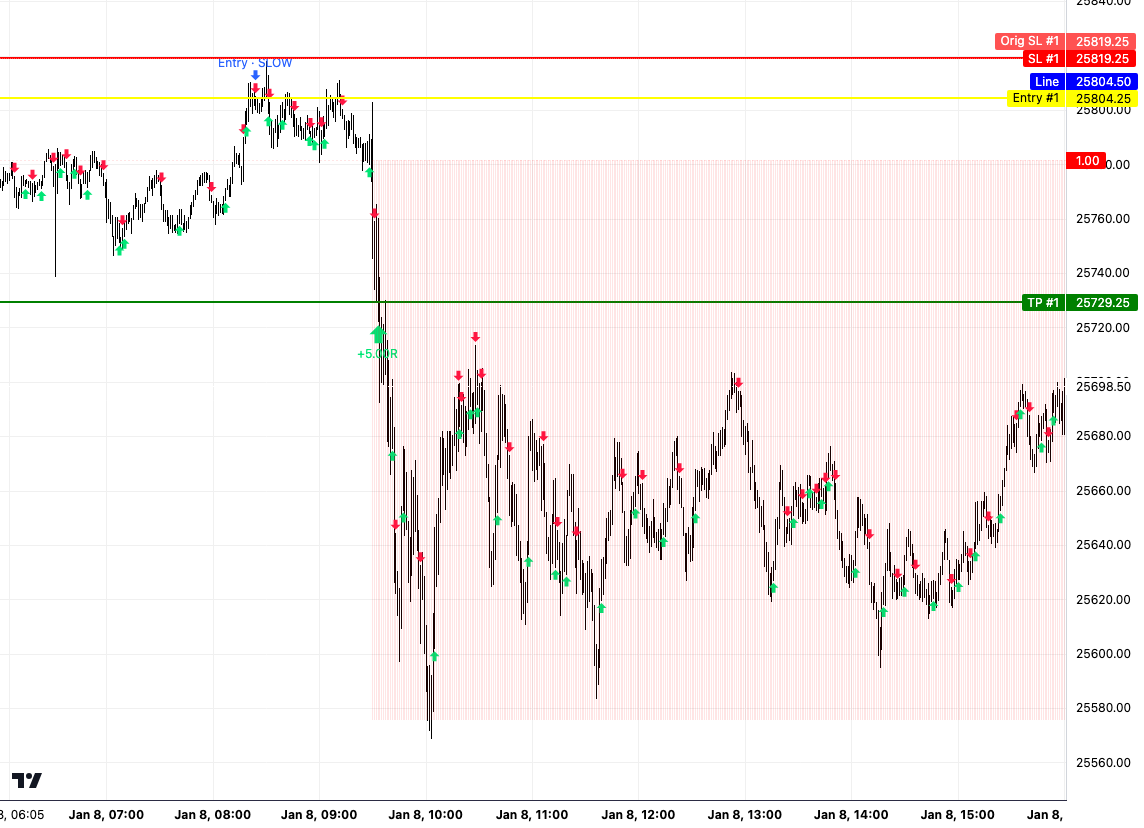
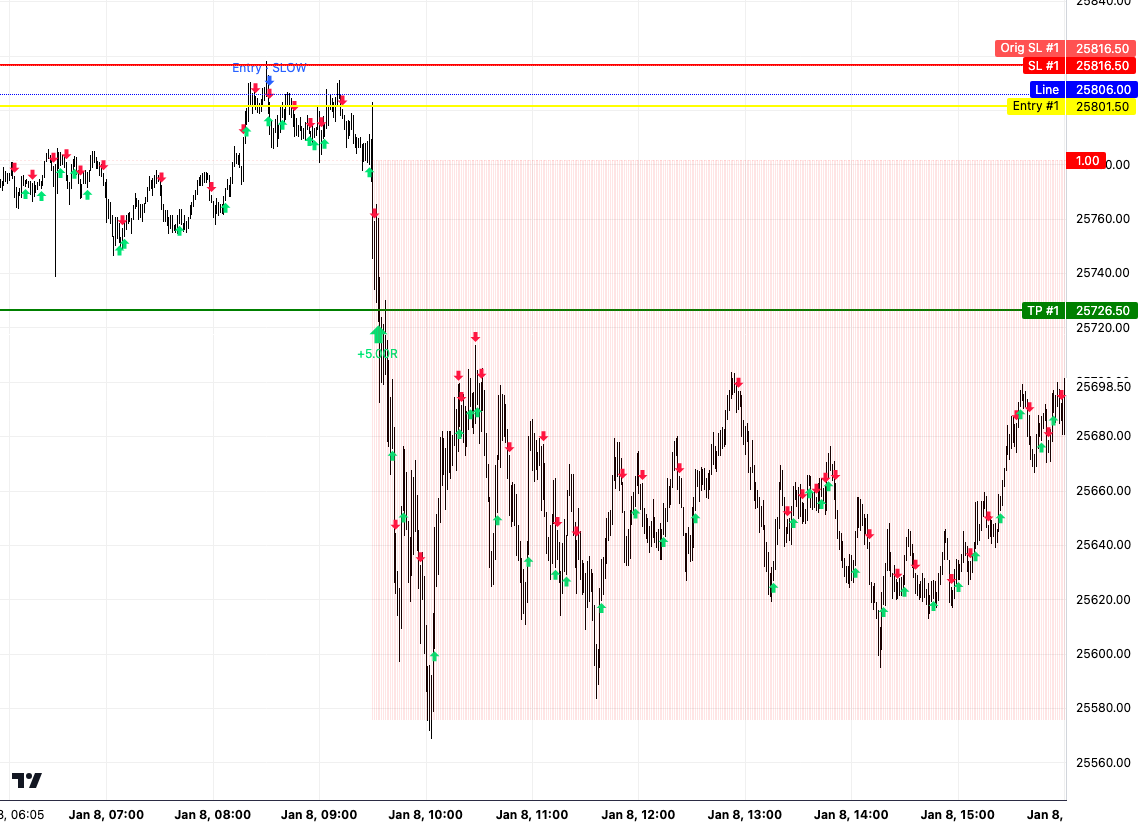
add session end time to Settings

Changed region(s): [[0.0, 0.0302, 1.0, 0.151], [0.0, 0.3321, 1.0, 0.3925]]

diff --git a/templates/admin.html b/templates/admin.html
@@ -274,6 +274,11 @@
               <label class="block text-xs font-medium text-gray-400 uppercase tracking-wider mb-1.5">Instrument</label>
               <input type="text" id="settings-instrument" class="w-full px-3 py-2.5 bg-gray-700/60 border border-gray-600 rounded-lg text-white focus:border-blue-500 focus:outline-none focus:ring-1 focus:ring-blue-500 transition-colors" />
             </div>
+            <div>
+              <label class="block text-xs font-medium text-gray-400 uppercase tracking-wider mb-1.5">Session End (HH:MM)</label>
+              <input type="text" id="settings-session-end" placeholder="16:58" class="w-full px-3 py-2.5 bg-gray-700/60 border border-gray-600 rounded-lg text-white focus:border-blue-500 focus:outline-none focus:ring-1 focus:ring-blue-500 transition-colors" />
+              <p class="text-xs text-gray-500 mt-1">Open trades are closed at this time to avoid overnight exposure.</p>
+            </div>
             <div class="bg-gray-700/40 rounded-lg p-3 text-sm text-gray-400">
               <p class="mb-1">💡 <span class="text-gray-300 font-medium">Risk &amp; RR Ratio</span> are configured per NT Account below.</p>
             </div>

diff --git a/static/js/admin/SettingsManager.js b/static/js/admin/SettingsManager.js
@@ -19,6 +19,7 @@ export class SettingsManager {
     this.el = {
       pair: document.getElementById('settings-pair'),
       instrument: document.getElementById('settings-instrument'),
+      sessionEnd: document.getElementById('settings-session-end'),
       // Global risk/rr removed — now per-account
       flaskPort: document.getElementById('settings-flask-port'),
       zmqHost: document.getElementById('settings-zmq-host'),
@@ -59,6 +60,7 @@ export class SettingsManager {
       const n = data.network || {};
       this.el.pair.value = t.pair || 'MNQ';
       this.el.instrument.value = t.instrument || '';
+      this.el.sessionEnd.value = t.session_end || '16:58';
       // Risk/RR are now per-account only
       this.el.flaskPort.value = n.flask_port || '5001';
       this.el.zmqHost.value = n.zmq_host || '127.0.0.1';
@@ -217,6 +219,7 @@ export class SettingsManager {
         trading: {
           pair: this.el.pair.value,
           instrument: this.el.instrument.value,
+          session_end: this.el.sessionEnd.value,
         },
         network: {
           flask_port: this.el.flaskPort.value,

diff --git a/scripts/run_scenarios.py b/scripts/run_scenarios.py
@@ -111,16 +111,16 @@ def verify_csv_data(csv_path: Path, pair: str, start_ts: int, end_ts: int):
 # Server Process Logic
 # -------------------------------------------------------------------------
 
-def run_test_server(csv_path: str, bars_per_second: float, port: int, ready_event: Event, quiet: bool = False, no_breakeven: bool = False, no_reentry_breakeven: bool = False, broker_mode: str = 'futures', broker_spread: float = 0.0, rr_ratio: float = 5.0, persist: bool = False, risk_per_trade: float = None, risk_pct_per_trade: float = None, account_balance: float = 100000.0, use_fractional_lots: bool = False, fee_per_rt: float = FinancialCalc.DEFAULT_FEE_PER_RT):
+def run_test_server(csv_path: str, bars_per_second: float, port: int, ready_event: Event, quiet: bool = False, no_breakeven: bool = False, no_reentry_breakeven: bool = False, broker_mode: str = 'futures', broker_spread: float = 0.0, rr_ratio: float = 5.0, persist: bool = False, risk_per_trade: float = None, risk_pct_per_trade: float = None, account_balance: float = 100000.0, use_fractional_lots: bool = False, fee_per_rt: float = FinancialCalc.DEFAULT_FEE_PER_RT, session_end: str = "16:58", session_tz: str = "America/New_York"):
     try:
-        _run_test_server_inner(csv_path, bars_per_second, port, ready_event, quiet, no_breakeven, no_reentry_breakeven, broker_mode, broker_spread, rr_ratio, persist, risk_per_trade, risk_pct_per_trade, account_balance, use_fractional_lots, fee_per_rt)
+        _run_test_server_inner(csv_path, bars_per_second, port, ready_event, quiet, no_breakeven, no_reentry_breakeven, broker_mode, broker_spread, rr_ratio, persist, risk_per_trade, risk_pct_per_trade, account_balance, use_fractional_lots, fee_per_rt, session_end, session_tz)
     except Exception as e:
         import traceback
         sys.stderr.write(f"\n❌ Server process crashed: {e}\n")
         traceback.print_exc(file=sys.stderr)
         sys.stderr.flush()
 
-def _run_test_server_inner(csv_path: str, bars_per_second: float, port: int, ready_event: Event, quiet: bool = False, no_breakeven: bool = False, no_reentry_breakeven: bool = False, broker_mode: str = 'futures', broker_spread: float = 0.0, rr_ratio: float = 5.0, persist: bool = False, risk_per_trade: float = None, risk_pct_per_trade: float = None, account_balance: float = 100000.0, use_fractional_lots: bool = False, fee_per_rt: float = FinancialCalc.DEFAULT_FEE_PER_RT):
+def _run_test_server_inner(csv_path: str, bars_per_second: float, port: int, ready_event: Event, quiet: bool = False, no_breakeven: bool = False, no_reentry_breakeven: bool = False, broker_mode: str = 'futures', broker_spread: float = 0.0, rr_ratio: float = 5.0, persist: bool = False, risk_per_trade: float = None, risk_pct_per_trade: float = None, account_balance: float = 100000.0, use_fractional_lots: bool = False, fee_per_rt: float = FinancialCalc.DEFAULT_FEE_PER_RT, session_end: str = "16:58", session_tz: str = "America/New_York"):
     if quiet:
         sys.stdout = open(os.devnull, 'w')
         import logging
@@ -174,6 +174,8 @@ def _run_test_server_inner(csv_path: str, bars_per_second: float, port: int, rea
         broker_spread=broker_spread,
         use_fractional_lots=use_fractional_lots,
         fee_per_rt=fee_per_rt,
+        session_end_time=session_end,
+        session_tz=session_tz,
     )
 
     ready_event.set()
@@ -497,9 +499,11 @@ async def run_suite(args, scenarios: List[Dict], csv_path: Path):
 
     # When risk_pct is set, pass None for risk_per_trade so percentage takes precedence
     risk_per_trade = None if getattr(args, 'risk_pct', None) is not None else args.risk
+    session_end = getattr(args, 'session_end', '16:58')
+    session_tz = getattr(args, 'session_tz', 'America/New_York')
     server_proc = Process(
         target=run_test_server,
-        args=(str(csv_path.resolve()), args.bars_per_second, args.port, server_ready, quiet, no_breakeven, no_reentry_breakeven, broker_mode, broker_spread, args.rr, args.persist, risk_per_trade, getattr(args, 'risk_pct', None), args.account, use_fractional_lots, fee_per_rt)
+        args=(str(csv_path.resolve()), args.bars_per_second, args.port, server_ready, quiet, no_breakeven, no_reentry_breakeven, broker_mode, broker_spread, args.rr, args.persist, risk_per_trade, getattr(args, 'risk_pct', None), args.account, use_fractional_lots, fee_per_rt, session_end, session_tz)
     )
     server_proc.start()
 
@@ -628,10 +632,11 @@ async def run_suite(args, scenarios: List[Dict], csv_path: Path):
                     sock.on('stream_end', () => { window.__done = true; });
                 """)
 
-                # Extend stream to NY session end (15:00) so open trades get closed
-                ny_tz = ZoneInfo("America/New_York")
+                # Extend stream to session end so open trades get closed
                 scenario_date = dtparser.parse(sc["start"]).date()
-                session_end_dt = datetime.combine(scenario_date, dtime(15, 0), tzinfo=ny_tz)
+                session_end_time = dtime.fromisoformat(getattr(args, 'session_end', '16:58'))
+                session_end_tz = ZoneInfo(getattr(args, 'session_tz', 'America/New_York'))
+                session_end_dt = datetime.combine(scenario_date, session_end_time, tzinfo=session_end_tz)
                 session_end_ts = int(session_end_dt.timestamp())
                 stream_stop_at = max(end_ts, session_end_ts)
 
@@ -1308,6 +1313,10 @@ def main():
                     help="Risk:Reward ratio for TP calculation (default: 4.0)")
     ap.add_argument("--persist", action="store_true", default=False,
                     help="Persist scenario trades to the database (default: false, uses in-memory storage)")
+    ap.add_argument("--session-end", type=str, default="16:58",
+                    help="Session end time HH:MM for closing open trades (default: 16:58)")
+    ap.add_argument("--session-tz", type=str, default="America/New_York",
+                    help="Timezone for session end time (default: America/New_York)")
     args = ap.parse_args()
 
     yaml_path = Path(args.yaml)

diff --git a/tests/test_trade_manager_expanded.py b/tests/test_trade_manager_expanded.py
@@ -486,12 +486,12 @@ class TestSessionEndCloseExpanded:
     def test_zmq_failure_keeps_trade_open(self):
         tm = _make_manager(
             trade_executor=ExplodingExecutor(),
-            session_end_time="15:00",
+            session_end_time="16:58",
             session_tz="America/New_York",
         )
         _add_open_trade(tm, entry=100, sl=90, tp=130, risk=10, entry_time=500)
         ny = __import__('zoneinfo').ZoneInfo("America/New_York")
-        bar_dt = datetime(2025, 6, 15, 15, 1, tzinfo=ny)
+        bar_dt = datetime(2025, 6, 15, 16, 59, tzinfo=ny)
         bar = make_bar(time=int(bar_dt.timestamp()), close=105, pair="MNQ")
         tm.handle_new_1m_bar(bar)
         assert len(tm.open_trades) == 1
@@ -502,12 +502,12 @@ class TestSessionEndCloseExpanded:
         tm = _make_manager(
             trade_repository=repo,
             analytics=analytics,
-            session_end_time="15:00",
+            session_end_time="16:58",
             session_tz="America/New_York",
         )
         _add_open_trade(tm, entry=100, sl=90, tp=130, risk=10, entry_time=500)
         ny = __import__('zoneinfo').ZoneInfo("America/New_York")
-        bar_dt = datetime(2025, 6, 15, 15, 1, tzinfo=ny)
+        bar_dt = datetime(2025, 6, 15, 16, 59, tzinfo=ny)
         bar = make_bar(time=int(bar_dt.timestamp()), close=105, pair="MNQ")
         tm.handle_new_1m_bar(bar)
         assert len(analytics.exceptions) == 1
@@ -515,21 +515,21 @@ class TestSessionEndCloseExpanded:
         assert len(tm.open_trades) == 0
 
     def test_skips_different_pair_at_session_end(self):
-        tm = _make_manager(session_end_time="15:00", session_tz="America/New_York")
+        tm = _make_manager(session_end_time="16:58", session_tz="America/New_York")
         _add_open_trade(tm, entry=100, sl=90, tp=130, risk=10, entry_time=500, pair="ES")
         ny = __import__('zoneinfo').ZoneInfo("America/New_York")
-        bar_dt = datetime(2025, 6, 15, 15, 1, tzinfo=ny)
+        bar_dt = datetime(2025, 6, 15, 16, 59, tzinfo=ny)
         bar = make_bar(time=int(bar_dt.timestamp()), close=105, pair="MNQ")
         tm.handle_new_1m_bar(bar)
         assert len(tm.open_trades) == 1
 
     def test_skips_entry_time_after_bar_at_session_end(self):
-        tm = _make_manager(session_end_time="15:00", session_tz="America/New_York")
+        tm = _make_manager(session_end_time="16:58", session_tz="America/New_York")
         # entry_time far in the future relative to the bar timestamp
         future_entry = int(datetime(2030, 1, 1, 0, 0, tzinfo=timezone.utc).timestamp())
         _add_open_trade(tm, entry=100, sl=90, tp=130, risk=10, entry_time=future_entry)
         ny = __import__('zoneinfo').ZoneInfo("America/New_York")
-        bar_dt = datetime(2025, 6, 15, 15, 1, tzinfo=ny)
+        bar_dt = datetime(2025, 6, 15, 16, 59, tzinfo=ny)
         bar = make_bar(time=int(bar_dt.timestamp()), close=105, pair="MNQ")
         tm.handle_new_1m_bar(bar)
         assert len(tm.open_trades) == 1

diff --git a/tests/test_trade_manager.py b/tests/test_trade_manager.py
@@ -178,21 +178,21 @@ class TestCFDMode:
 class TestSessionEndClose:
 
     def test_closes_at_session_end(self):
-        tm = _make_manager(session_end_time="15:00", session_tz="America/New_York")
+        tm = _make_manager(session_end_time="16:58", session_tz="America/New_York")
         _add_open_trade(tm, entry=100, sl=90, tp=130, risk=10, entry_time=500)
-        # 15:01 NY -> should close
+        # 16:59 NY -> should close
         from zoneinfo import ZoneInfo
         ny = ZoneInfo("America/New_York")
-        bar_dt = datetime(2025, 6, 15, 15, 1, tzinfo=ny)
+        bar_dt = datetime(2025, 6, 15, 16, 59, tzinfo=ny)
         bar = make_bar(time=int(bar_dt.timestamp()), close=105, pair="MNQ")
         tm.handle_new_1m_bar(bar)
         assert len(tm.open_trades) == 0
 
     def test_skips_same_bar_session_end(self):
-        tm = _make_manager(session_end_time="15:00", session_tz="America/New_York")
+        tm = _make_manager(session_end_time="16:58", session_tz="America/New_York")
         from zoneinfo import ZoneInfo
         ny = ZoneInfo("America/New_York")
-        bar_dt = datetime(2025, 6, 15, 15, 1, tzinfo=ny)
+        bar_dt = datetime(2025, 6, 15, 16, 58, tzinfo=ny)
         entry_time = int(bar_dt.timestamp())
         _add_open_trade(tm, entry=100, sl=90, tp=130, risk=10, entry_time=entry_time)
         bar = make_bar(time=entry_time, close=105, pair="MNQ")
@@ -201,11 +201,11 @@ class TestSessionEndClose:
         assert len(tm.open_trades) == 1
 
     def test_does_not_close_before_session_end(self):
-        tm = _make_manager(session_end_time="15:00", session_tz="America/New_York")
+        tm = _make_manager(session_end_time="16:58", session_tz="America/New_York")
         _add_open_trade(tm, entry=100, sl=90, tp=130, risk=10, entry_time=500)
         from zoneinfo import ZoneInfo
         ny = ZoneInfo("America/New_York")
-        bar_dt = datetime(2025, 6, 15, 14, 59, tzinfo=ny)
+        bar_dt = datetime(2025, 6, 15, 16, 57, tzinfo=ny)
         bar = make_bar(time=int(bar_dt.timestamp()), close=105, pair="MNQ")
         tm.handle_new_1m_bar(bar)
         assert len(tm.open_trades) == 1

diff --git a/app_factory.py b/app_factory.py
@@ -266,6 +266,8 @@ def create_app(
     db: DatabaseProtocol | None = None,
     accounts_repo=None,
     app_config=None,
+    session_end_time: str | None = None,
+    session_tz: str = "America/New_York",
 ) -> AppWiring:
     """
     Build the whole application with injected dependencies.
@@ -319,12 +321,14 @@ def create_app(
     if accounts_repo is None and db is not None:
         accounts_repo = NtAccountRepository(db=db)
 
+    _resolved_session_end = session_end_time or (getattr(app_config, "session_end", None) if app_config else None) or "16:58"
+
     trade_manager = TradeManager(
         trade_repository=repos.trades,
         socketio=event_publisher,
         pair=pair,
-        session_end_time="17:00",
-        session_tz="America/New_York",
+        session_end_time=_resolved_session_end,
+        session_tz=session_tz,
         broker_mode=broker_mode,
         broker_spread=broker_spread,
         use_fractional_lots=use_fractional_lots,

diff --git a/src/config/builder.py b/src/config/builder.py
@@ -137,6 +137,7 @@ class AppBuilder:
             app_config=cfg,
             db=db,
             accounts_repo=accounts_repo,
+            session_end_time=cfg.session_end,
         ), None
 
     # ------------------------------------------------------------------
@@ -231,5 +232,6 @@ class AppBuilder:
             app_config=cfg,
             db=db,
             accounts_repo=accounts_repo,
+            session_end_time=cfg.session_end,
         )
         return wiring, ds

diff --git a/src/services/settings_service.py b/src/services/settings_service.py
@@ -79,6 +79,7 @@ class SettingsService:
             "trading": {
                 "pair": all_settings.get("pair", "MNQ"),
                 "instrument": all_settings.get("instrument", "MNQ 06-26"),
+                "session_end": all_settings.get("session_end", "16:58"),
             },
             "network": {
                 "flask_port": all_settings.get("flask_port", "5001"),

diff --git a/src/config/models.py b/src/config/models.py
@@ -116,7 +116,7 @@ class AppConfig:
     """Trading session start time (HH:MM, in ``America/New_York`` by default).
     Entry filters block signals outside this window."""
 
-    session_end: str = "17:00"
+    session_end: str = "16:58"
     """Trading session end time (HH:MM). Open trades are closed at this time
     in live mode to avoid overnight exposure."""
 
